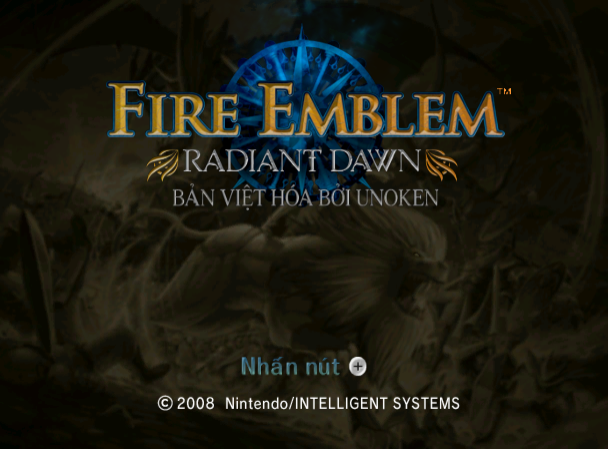
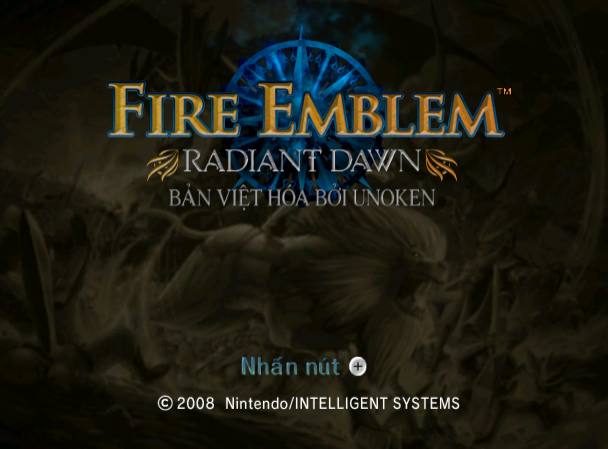
Cập nhật trang (2026-11-07)

diff --git a/index.html b/index.html
@@ -65,9 +65,9 @@
 <section id="tien-do">
   <h2>Tiến độ</h2>
   <div class="card progress">
-    <div class="prow"><span class="lbl">Lời</span><div class="bar"><i style="width:22.8%"></i></div><span class="pct">23%</span><span class="det">60.788/266.657 từ tiếng Anh (thoại, menu, hỗ trợ, hướng dẫn…)</span></div>
-    <div class="prow"><span class="lbl">Ảnh</span><div class="bar"><i style="width:100.0%"></i></div><span class="pct">100%</span><span class="det">674/674 vùng chữ trong ảnh</span></div>
-    <div class="prow"><span class="lbl">Công cụ</span><div class="bar"><i style="width:69.2%"></i></div><span class="pct">69%</span><span class="det">27/39 phần việc nền móng, ảnh, dấu ấn, đóng gói, trang web</span></div>
+    <div class="prow"><span class="lbl">Lời</span><div class="bar"><i style="width:30.9%"></i></div><span class="pct">31%</span><span class="det">82.248/265.985 từ tiếng Anh (thoại, menu, hỗ trợ, hướng dẫn…)</span></div>
+    <div class="prow"><span class="lbl">Ảnh</span><div class="bar"><i style="width:100.0%"></i></div><span class="pct">100%</span><span class="det">677/677 vùng chữ trong ảnh</span></div>
+    <div class="prow"><span class="lbl">Công cụ</span><div class="bar"><i style="width:100.0%"></i></div><span class="pct">100%</span><span class="det">39/39 phần việc nền móng, ảnh, dấu ấn, đóng gói, trang web</span></div>
   </div>
   <ul class="miles">
     <li><span class="id">Phần 1</span><span><strong>Thiếu nữ Tóc bạc</strong> <span class="desc">· Micaiah và Đội Bình Minh, 11 chương · 21.853 từ</span></span><span class="tag">Chưa bắt đầu</span></li>
@@ -76,7 +76,7 @@
     <li><span class="id">Phần 4</span><span><strong>Thần và Người</strong> <span class="desc">· Tháp Thiên Dẫn, 6 chương và 5 màn Hồi kết · 46.165 từ</span></span><span class="tag">Chưa bắt đầu</span></li>
     <li><span class="id">Hỗ trợ</span><span><strong>Hội thoại hỗ trợ</strong> <span class="desc">· câu hỗ trợ giữa các nhân vật · 88.485 từ</span></span><span class="tag doing">Đang dịch · 50%</span></li>
     <li><span class="id">Menu</span><span><strong>Giao diện</strong> <span class="desc">· menu, vật phẩm, kỹ năng, tên nhân vật và lớp · 19.111 từ</span></span><span class="tag doing">Đang dịch · 86%</span></li>
-    <li><span class="id">Khác</span><span><strong>Hướng dẫn, từ điển, hậu truyện</strong> <span class="desc">· hướng dẫn chơi, từ điển, hậu truyện, danh sách nhân sự · 25.223 từ</span></span><span class="tag">Chưa bắt đầu</span></li>
+    <li><span class="id">Khác</span><span><strong>Hướng dẫn, từ điển, hậu truyện</strong> <span class="desc">· hướng dẫn chơi, từ điển, hậu truyện, danh sách nhân sự · 24.551 từ</span></span><span class="tag doing">Đang dịch · 87%</span></li>
     <li><span class="id">v1.0</span><span><strong>Phát hành bản vá</strong> <span class="desc">· công khai một lần khi đã dịch xong toàn bộ</span></span><span class="tag">Chưa phát hành</span></li>
   </ul>
 </section>
@@ -95,6 +95,14 @@
 
 <section id="nhat-ky" class="changelog">
   <h2>Nhật ký</h2>
+  <h3>07/11/2026 — Hướng dẫn, từ điển</h3>
+  <ul>
+    <li>Dịch xong toàn bộ hướng dẫn chơi của Anna, cả các thoại làm mẫu; chữ &quot;Minh họa&quot; trên màn hình hướng dẫn vẽ lại theo kiểu chữ gốc.</li>
+    <li>Dịch xong từ điển trong game: nhân vật, quốc gia, thuật ngữ. Hai thế hệ Tứ Kỵ sĩ dùng hai tên riêng như bản Nhật: Tứ Kỵ sĩ Daein thời FE9 và Tứ Kỵ sĩ Kiên Trung bây giờ.</li>
+    <li>Dịch xong màn giới thiệu lớp nhân vật và danh sách nhân sự cuối game.</li>
+    <li>Chạy thử bản dựng trên Dolphin và sửa các lỗi hiển thị: chữ tràn khung, chữ đè nhau, &quot;No Data&quot; ở màn hình chọn file làm lại thành chữ &quot;Trống&quot; khắc chìm như bản gốc, dòng &quot;Bản Việt hóa bởi Unoken&quot; trên màn hình tiêu đề căn lại cho cân.</li>
+    <li>Sau phần này sẽ bắt đầu dịch cốt truyện, từ Mở đầu Phần 1.</li>
+  </ul>
   <h3>05/11 – 07/11/2026 — Giao diện</h3>
   <ul>
     <li>Dịch gần xong phần giao diện: tên vật phẩm, kỹ năng, lớp nhân vật; menu hệ thống, Tùy chọn, dữ liệu lưu; bản đồ, điều kiện thắng thua; căn cứ, cửa hàng, lò rèn, kho đồ; mô tả vũ khí, vật phẩm, kỹ năng, lớp nhân vật và các dòng trợ giúp.</li>
